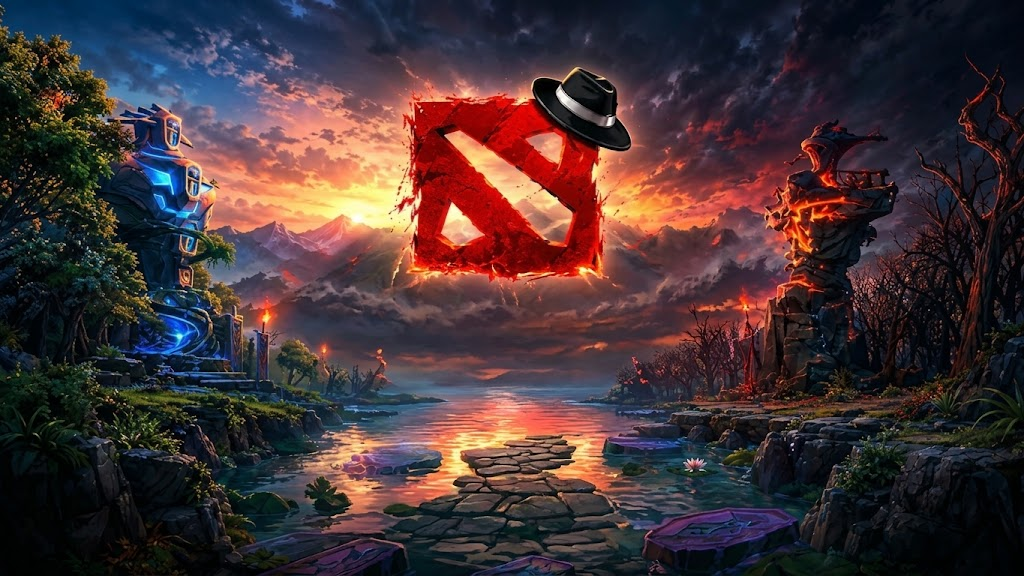
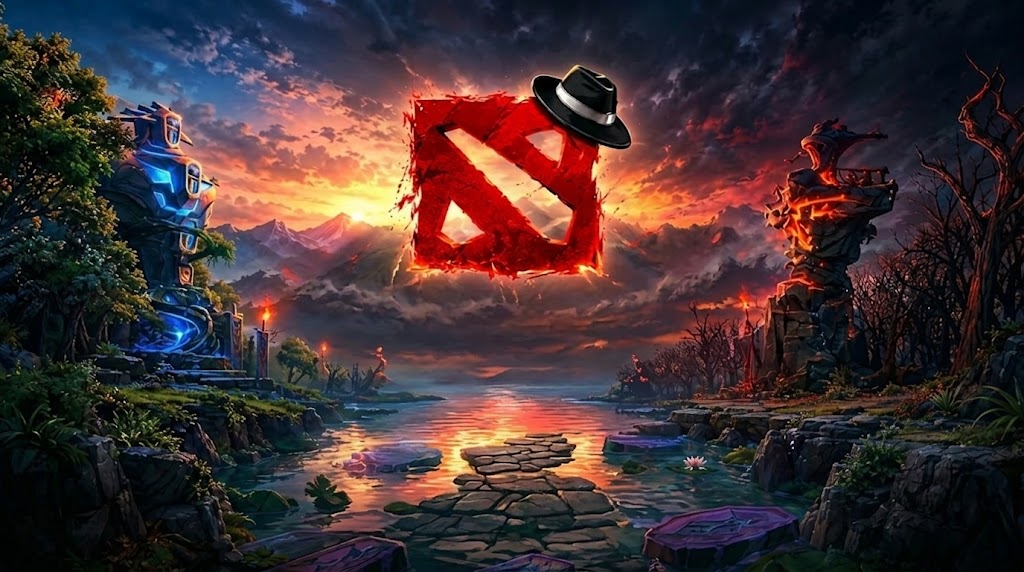
cambios en el diseño del hero

diff --git a/src/components/sections/HeroSection.css b/src/components/sections/HeroSection.css
@@ -25,6 +25,7 @@
   width: 100%;
   height: 100%;
   object-fit: cover;
+  transform: translateX(1%) scale(1.04);
 }
 
 .hero__overlay {
@@ -40,8 +41,9 @@
   position: relative;
   z-index: 10;
   text-align: center;
-  padding-inline: 1.5rem;
   max-width: 52rem;
+  padding-inline: 1.5rem;
+
 }
 
 .hero__eyebrow {
@@ -54,12 +56,12 @@
 }
 
 .hero__title {
-font-family: 'RoadRage', sans-serif;
+  font-family: 'RoadRage', sans-serif;
+  letter-spacing: 0.05em;
   font-size: 3.5rem;
-  text-transform: uppercase;
   color: #ffffff;
   text-shadow: 2px 2px 4px rgba(0, 0, 0, 0.8);
-  margin-top: 300px
+  margin-top: 330px;
 }
 
 .hero__title1 {

diff --git a/src/components/sections/InscripcionSection.jsx b/src/components/sections/InscripcionSection.jsx
@@ -265,7 +265,7 @@ export default function InscripcionSection() {
                     <div className="inscripcion-form__jugador-row">
                       <div className="field field--dark">
                         <label className="field__label field__label--dark" htmlFor={`jugador-${index}`}>
-                          Datos del jugador {index + 1}:
+                          Datos del jugador {index + 2}:
                         </label>
                         <input
                           className="field__input field__input--dark"

diff --git a/src/styles/base.css b/src/styles/base.css
@@ -46,8 +46,12 @@
 }
 
 html {
-  scroll-behavior: smooth;
-  overflow-x: hidden;
+  scrollbar-width: none;
+  ms-overflow-style: none;
+}
+
+html::-webkit-scrollbar {
+  display: none;
 }
 
 body {
@@ -56,6 +60,7 @@ body {
   color: var(--on-surface);
   line-height: 1.6;
   overflow-x: hidden;
+  margin:auto;
 }
 
 img {

diff --git a/src/App.jsx b/src/App.jsx
@@ -7,7 +7,7 @@ import EquiposSection from "./components/sections/EquiposSection"
 import FooterSection from "./components/sections/FooterSection"
 
 const heroData = {
-  title: "MACHACHI",
+  title:"MACHACHI",
   title1: "CUP",
   title2: "FECHA DE INSCRIPCIONES",
   subtitle:
